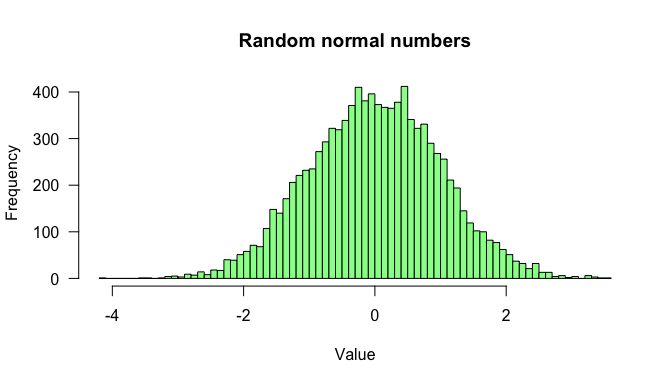
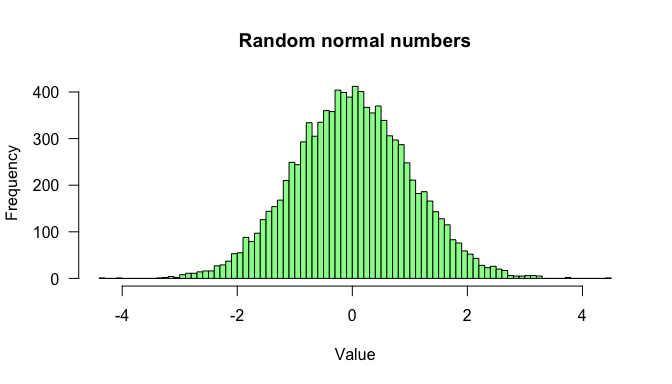
progressed with the solutions

diff --git a/stat-R_2020/practicals/R-structures/basic_R-structures.html b/stat-R_2020/practicals/R-structures/basic_R-structures.html
@@ -404,30 +404,29 @@ div.tocify {
 <span id="cb3-9"><a href="#cb3-9"></a><span class="co">## Print the results rounded at 2 decimals</span></span>
 <span id="cb3-10"><a href="#cb3-10"></a><span class="kw">print</span>(<span class="kw">round</span>(matAleatoire, <span class="dt">digits =</span> <span class="dv">2</span>))</span></code></pre></div>
 <pre><code>       [,1]  [,2]  [,3]  [,4]  [,5]  [,6]  [,7]  [,8]  [,9] [,10]
- [1,] -1.41 -0.06  0.19  0.00 -1.73  0.51 -0.83  0.93 -1.42 -0.28
- [2,] -0.96  2.49  0.26 -3.23  0.02  2.28 -4.24 -1.39  1.28 -2.32
- [3,]  2.13  0.73  2.05  1.70 -0.35  1.17  0.06 -3.89 -3.70 -2.16
- [4,]  0.16 -1.49 -2.85  3.69 -1.31 -0.24  3.74  0.65 -1.01  3.66
- [5,] -1.53  1.86 -0.19  2.09  2.00  0.24  1.13 -3.30  2.76 -1.24
- [6,] -0.54  4.35  1.07  1.06 -1.89 -2.93  0.73  2.38 -3.67 -0.85
- [7,] -3.40  1.18  0.09  4.46 -3.21  1.54 -3.74 -1.01  4.50 -0.05
- [8,]  5.25  2.14 -1.61 -2.81  0.33  1.26  2.44  3.33 -1.56 -0.44
- [9,]  0.80  0.05  0.67  3.73  1.59  2.17 -2.57 -0.59  0.54  3.60
-[10,] -2.25  4.62  0.55 -3.04 -1.08 -3.81  0.12  4.22 -1.28 -1.28</code></pre>
+ [1,] -2.52 -1.95  6.23  0.86 -0.11  3.23 -2.03  4.21  1.55 -3.34
+ [2,]  0.42 -4.13  1.45  0.14 -0.25  1.67  1.39 -5.61 -2.73  1.30
+ [3,]  1.66  2.98 -0.09  0.96  2.40 -3.24  1.40 -3.39  0.45  0.83
+ [4,] -0.21  1.87  1.44 -0.47 -0.42 -3.38  1.78 -0.51  1.15 -1.34
+ [5,] -0.79 -2.41  1.70 -6.49  3.78 -4.52 -1.14 -1.01 -2.20 -0.53
+ [6,] -1.44  0.71  0.99  1.71  0.45  1.25 -3.12  0.35 -0.47  1.99
+ [7,] -0.29  0.32 -2.38 -0.92 -1.86  1.51 -1.29 -2.73  0.64  0.68
+ [8,]  1.64  0.98  3.03 -4.63 -0.30 -0.11  2.57 -1.42 -2.68 -0.69
+ [9,] -3.72 -2.59 -0.83  0.00 -3.11 -0.71  1.21 -2.48 -0.87 -2.88
+[10,]  0.39 -1.69  0.57 -2.60  1.86 -0.03  2.35  2.39  0.08 -2.34</code></pre>
 </div>
 </div>
 </div>
-<div id="exercice-2" class="section level2">
-<h2>Exercice 2</h2>
-<p>2.1. Créez deux vecteurs aléatoires nommés <code>x1</code> et <code>x2</code>, contenant chacun 1000 valeurs aléatoires respectivement compatibles:</p>
+<div id="exercice-2.1" class="section level2">
+<h2>Exercice 2.1</h2>
+<p>Créez deux vecteurs aléatoires nommés <code>x1</code> et <code>x2</code>, contenant chacun <span class="math inline">\(n = 10.000\)</span> valeurs aléatoires respectivement compatibles:</p>
 <ol style="list-style-type: lower-alpha">
 <li>avec une loi normale centrée réduite pour <code>x1</code>;</li>
 <li>avec une loi uniforme définie sur l’intervalle <span class="math inline">\([0, 10]\)</span> pour <code>x2</code>.</li>
 </ol>
-<p>2.2. Créez une matrice <code>m1</code> qui contient les 10 premières valeurs de x1 (colonne 1 de m1) et les 10 dernières valeurs de x2 (colonne 2 de m1).</p>
-<p>2.3. Créez une matrice <code>m2</code> qui contient les 16ème, 51ème, 79ème, 31ème et 27ème valeurs de x1 (colonne 1 de m2) et les 30ème, 70ème, 12ème, 49ème et 45ème de x2 (colonne 2 de m2).</p>
-<p>2.4. Concaténez à la suite (l’une en dessous-de l’autre) les matrices m1 et m2, afin d’obtenir une nouvelle matrice m3. Quelles sont les dimensions (nombre de lignes et de colonnes) de m3?</p>
-<p><strong>Fonctions à utiliser :</strong> <code>rnorm()</code>, <code>runif()</code>, <code>cbind()</code>, <code>rbind()</code>, <code>dim()</code>, …</p>
+<p>Vérifiez la distribution empirique de ces échantillons en dessinant des histogrammes.</p>
+<p>Vérifiez si les paramètres de vos échantillons aléatoires correspondent à vos attentes (et à leur <em>espérance statistique</em>).</p>
+<p><strong>Fonctions à utiliser :</strong> <code>rnorm()</code>, <code>runif()</code>, <code>cbind()</code>, <code>rbind()</code>, <code>dim()</code>, <code>mean()</code>, <code>var()</code>, <code>min()</code>, <code>max()</code>, <code>summary()</code>, …</p>
 <div id="solutions-1" class="section level3">
 <h3>Solutions</h3>
 <div class="sourceCode" id="cb5"><pre class="sourceCode r"><code class="sourceCode r"><span id="cb5-1"><a href="#cb5-1"></a>n &lt;-<span class="st"> </span><span class="dv">10000</span> <span class="co">## define vector sizes</span></span>
@@ -464,7 +463,54 @@ Histogram of normally distributed random numbers.
 Histogram of uniformly distributed random numbers.
 </p>
 </div>
+<div class="sourceCode" id="cb9"><pre class="sourceCode r"><code class="sourceCode r"><span id="cb9-1"><a href="#cb9-1"></a><span class="kw">summary</span>(x1)</span></code></pre></div>
+<pre><code>     Min.   1st Qu.    Median      Mean   3rd Qu.      Max. 
+-4.310823 -0.692132 -0.006301 -0.000454  0.674848  4.429588 </code></pre>
 </div>
+</div>
+<div id="exercice-2.2" class="section level2">
+<h2>Exercice 2.2</h2>
+<p>Créez une matrice <code>m1</code> qui contient les 10 premières valeurs de <code>x1</code> (colonne 1 de <code>m1</code>) et les 10 dernières valeurs de <code>x2</code> (colonne 2 de <code>m1</code>).</p>
+<div id="solution" class="section level3">
+<h3>Solution</h3>
+<div class="sourceCode" id="cb11"><pre class="sourceCode r"><code class="sourceCode r"><span id="cb11-1"><a href="#cb11-1"></a><span class="co">## Prepare an empty matrix</span></span>
+<span id="cb11-2"><a href="#cb11-2"></a>m1 &lt;-<span class="st"> </span><span class="kw">matrix</span>(<span class="dt">nrow =</span> <span class="dv">10</span>, <span class="dt">ncol =</span> <span class="dv">2</span>)</span>
+<span id="cb11-3"><a href="#cb11-3"></a></span>
+<span id="cb11-4"><a href="#cb11-4"></a><span class="co">## Assign values to the first column</span></span>
+<span id="cb11-5"><a href="#cb11-5"></a>m1[, <span class="dv">1</span>] &lt;-<span class="st"> </span><span class="kw">head</span>(<span class="dt">x =</span> x1, <span class="dt">n =</span> <span class="dv">10</span>)</span>
+<span id="cb11-6"><a href="#cb11-6"></a></span>
+<span id="cb11-7"><a href="#cb11-7"></a><span class="co">## Assign values to the second column</span></span>
+<span id="cb11-8"><a href="#cb11-8"></a>m1[, <span class="dv">2</span>] &lt;-<span class="st"> </span><span class="kw">tail</span>(<span class="dt">x =</span> x1, <span class="dt">n =</span> <span class="dv">10</span>)</span>
+<span id="cb11-9"><a href="#cb11-9"></a></span>
+<span id="cb11-10"><a href="#cb11-10"></a><span class="co">## Print the result rounded to 3 decimals</span></span>
+<span id="cb11-11"><a href="#cb11-11"></a><span class="kw">print</span>(<span class="kw">round</span>(m1, <span class="dt">digits =</span> <span class="dv">3</span>))</span></code></pre></div>
+<pre><code>        [,1]   [,2]
+ [1,]  0.683 -1.562
+ [2,]  1.822  0.183
+ [3,] -0.935 -0.286
+ [4,]  2.422  0.658
+ [5,] -0.379 -0.443
+ [6,]  0.375  0.433
+ [7,]  1.193  0.825
+ [8,]  1.067  1.127
+ [9,] -1.160 -1.461
+[10,]  0.194 -0.931</code></pre>
+</div>
+</div>
+<div id="exercice-2.3" class="section level2">
+<h2>Exercice 2.3</h2>
+<p>Créez une matrice <code>m2</code> qui contient</p>
+<ul>
+<li>les 16ème, 51ème, 79ème, 31ème et 27ème valeurs de <code>x1</code> (colonne 1 de <code>m2</code>) et</li>
+<li>les 30ème, 70ème, 12ème, 49ème et 45ème de <code>x2</code> (colonne 2 de <code>m2</code>).</li>
+</ul>
+<div id="solutions-2" class="section level3">
+<h3>Solutions</h3>
+</div>
+</div>
+<div id="exercice-2.4" class="section level2">
+<h2>Exercice 2.4</h2>
+<p>Concaténez à la suite (l’une en dessous-de l’autre) les matrices m1 et m2, afin d’obtenir une nouvelle matrice m3. Quelles sont les dimensions (nombre de lignes et de colonnes) de m3?</p>
 </div>
 <div id="exercice-3" class="section level2">
 <h2>Exercice 3</h2>

diff --git a/stat-R_2020/practicals/R-structures/basic_R-structures.md b/stat-R_2020/practicals/R-structures/basic_R-structures.md
@@ -138,34 +138,32 @@ print(round(matAleatoire, digits = 2))
 
 ```
        [,1]  [,2]  [,3]  [,4]  [,5]  [,6]  [,7]  [,8]  [,9] [,10]
- [1,] -1.41 -0.06  0.19  0.00 -1.73  0.51 -0.83  0.93 -1.42 -0.28
- [2,] -0.96  2.49  0.26 -3.23  0.02  2.28 -4.24 -1.39  1.28 -2.32
- [3,]  2.13  0.73  2.05  1.70 -0.35  1.17  0.06 -3.89 -3.70 -2.16
- [4,]  0.16 -1.49 -2.85  3.69 -1.31 -0.24  3.74  0.65 -1.01  3.66
- [5,] -1.53  1.86 -0.19  2.09  2.00  0.24  1.13 -3.30  2.76 -1.24
- [6,] -0.54  4.35  1.07  1.06 -1.89 -2.93  0.73  2.38 -3.67 -0.85
- [7,] -3.40  1.18  0.09  4.46 -3.21  1.54 -3.74 -1.01  4.50 -0.05
- [8,]  5.25  2.14 -1.61 -2.81  0.33  1.26  2.44  3.33 -1.56 -0.44
- [9,]  0.80  0.05  0.67  3.73  1.59  2.17 -2.57 -0.59  0.54  3.60
-[10,] -2.25  4.62  0.55 -3.04 -1.08 -3.81  0.12  4.22 -1.28 -1.28
+ [1,] -2.52 -1.95  6.23  0.86 -0.11  3.23 -2.03  4.21  1.55 -3.34
+ [2,]  0.42 -4.13  1.45  0.14 -0.25  1.67  1.39 -5.61 -2.73  1.30
+ [3,]  1.66  2.98 -0.09  0.96  2.40 -3.24  1.40 -3.39  0.45  0.83
+ [4,] -0.21  1.87  1.44 -0.47 -0.42 -3.38  1.78 -0.51  1.15 -1.34
+ [5,] -0.79 -2.41  1.70 -6.49  3.78 -4.52 -1.14 -1.01 -2.20 -0.53
+ [6,] -1.44  0.71  0.99  1.71  0.45  1.25 -3.12  0.35 -0.47  1.99
+ [7,] -0.29  0.32 -2.38 -0.92 -1.86  1.51 -1.29 -2.73  0.64  0.68
+ [8,]  1.64  0.98  3.03 -4.63 -0.30 -0.11  2.57 -1.42 -2.68 -0.69
+ [9,] -3.72 -2.59 -0.83  0.00 -3.11 -0.71  1.21 -2.48 -0.87 -2.88
+[10,]  0.39 -1.69  0.57 -2.60  1.86 -0.03  2.35  2.39  0.08 -2.34
 ```
 
 
-## Exercice 2
+## Exercice 2.1
 
-2.1. Créez deux vecteurs aléatoires nommés `x1` et `x2`, contenant chacun 1000 valeurs aléatoires respectivement compatibles:
+Créez deux vecteurs aléatoires nommés `x1` et `x2`, contenant chacun $n = 10.000$ valeurs aléatoires respectivement compatibles:
 
 a. avec une loi normale centrée réduite pour `x1`;
 b. avec une loi uniforme définie sur l’intervalle $[0, 10]$ pour `x2`.
 
+Vérifiez la distribution empirique de ces échantillons en dessinant des histogrammes. 
 
-2.2. Créez une matrice `m1` qui contient les 10 premières valeurs de x1 (colonne 1 de m1) et les 10 dernières valeurs de x2 (colonne 2 de m1).
+Vérifiez si les paramètres de vos échantillons aléatoires correspondent à vos attentes (et à leur *espérance statistique*). 
 
-2.3. Créez une matrice `m2` qui contient les 16ème, 51ème, 79ème, 31ème et 27ème valeurs de x1 (colonne 1 de m2) et les 30ème, 70ème, 12ème, 49ème et 45ème de x2 (colonne 2 de m2).
 
-2.4. Concaténez à la suite (l’une en dessous-de l’autre) les matrices m1 et m2, afin d’obtenir une nouvelle matrice m3. Quelles sont les dimensions (nombre de lignes et de colonnes) de m3?
-
-**Fonctions à utiliser :** `rnorm()`, `runif()`, `cbind()`, `rbind()`, `dim()`, ...
+**Fonctions à utiliser :** `rnorm()`, `runif()`, `cbind()`, `rbind()`, `dim()`, `mean()`, `var()`, `min()`, `max()`, `summary()`, ...
 
 ### Solutions
 
@@ -221,6 +219,64 @@ hist(x = x2, breaks = 10,
 </div>
 
 
+
+```r
+summary(x1)
+```
+
+```
+     Min.   1st Qu.    Median      Mean   3rd Qu.      Max. 
+-4.310823 -0.692132 -0.006301 -0.000454  0.674848  4.429588 
+```
+
+## Exercice 2.2
+
+Créez une matrice `m1` qui contient les 10 premières valeurs de `x1` (colonne 1 de `m1`) et les 10 dernières valeurs de `x2` (colonne 2 de `m1`).
+
+### Solution
+
+
+```r
+## Prepare an empty matrix
+m1 <- matrix(nrow = 10, ncol = 2)
+
+## Assign values to the first column
+m1[, 1] <- head(x = x1, n = 10)
+
+## Assign values to the second column
+m1[, 2] <- tail(x = x1, n = 10)
+
+## Print the result rounded to 3 decimals
+print(round(m1, digits = 3))
+```
+
+```
+        [,1]   [,2]
+ [1,]  0.683 -1.562
+ [2,]  1.822  0.183
+ [3,] -0.935 -0.286
+ [4,]  2.422  0.658
+ [5,] -0.379 -0.443
+ [6,]  0.375  0.433
+ [7,]  1.193  0.825
+ [8,]  1.067  1.127
+ [9,] -1.160 -1.461
+[10,]  0.194 -0.931
+```
+
+
+## Exercice 2.3
+
+Créez une matrice `m2` qui contient 
+
+- les 16ème, 51ème, 79ème, 31ème et 27ème valeurs de `x1` (colonne 1 de `m2`) et
+- les 30ème, 70ème, 12ème, 49ème et 45ème de `x2` (colonne 2 de `m2`).
+
+### Solutions
+
+## Exercice 2.4
+
+Concaténez à la suite (l’une en dessous-de l’autre) les matrices m1 et m2, afin d’obtenir une nouvelle matrice m3. Quelles sont les dimensions (nombre de lignes et de colonnes) de m3?
 
 ## Exercice 3
 
